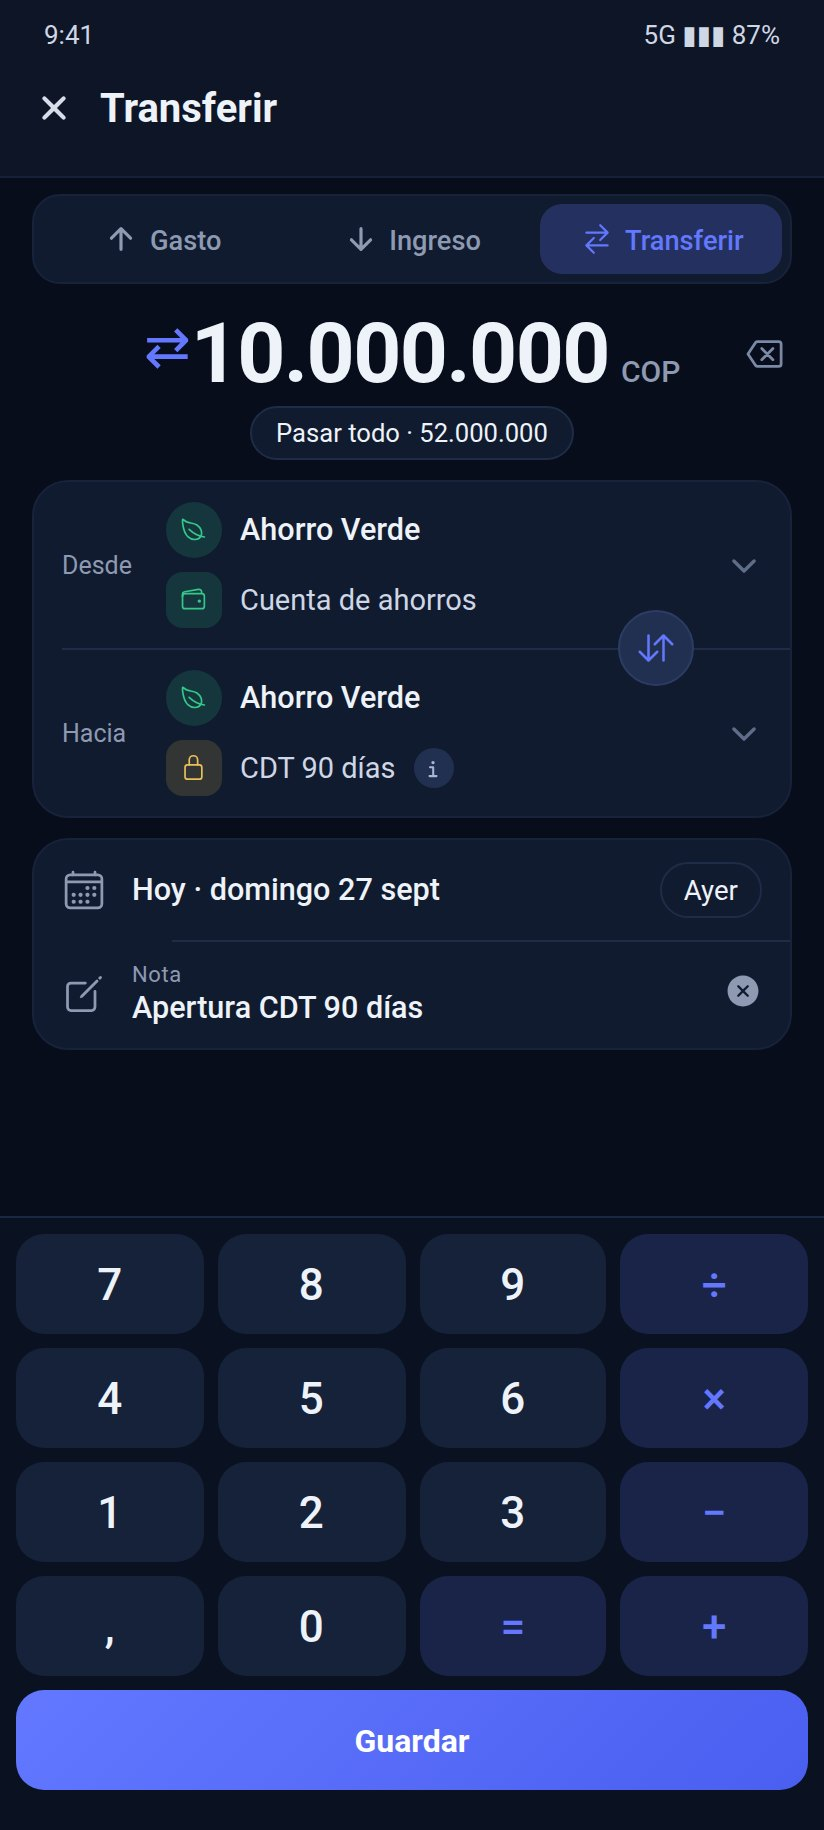
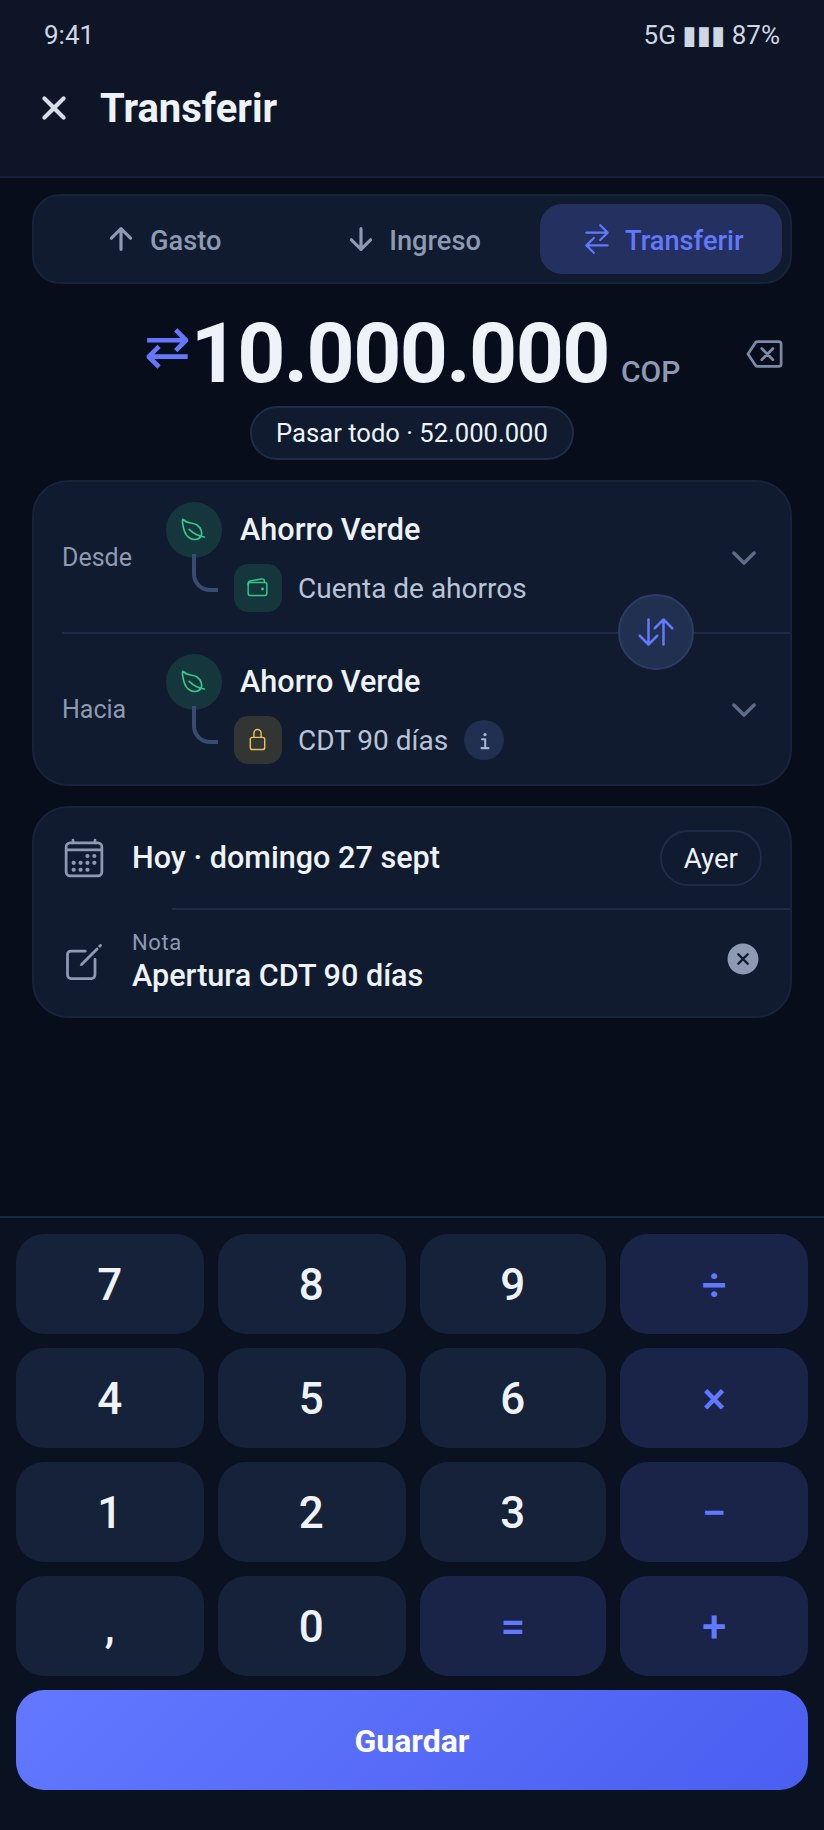
Hang each product from its account in the movement forms
A connector line from the account's circle turns into the product, which
is indented, smaller and lighter, so an end reads as one account holding
one product rather than two accounts.

Claude-Session: https://claude.ai/code/session_01QyUqFix1SMdsKVBtd1Wz88

diff --git a/CLAUDE.md b/CLAUDE.md
@@ -2228,7 +2228,10 @@ does today, with these changes of ACCESS for Jose to accept or refuse:
   size - the account in a circle, the product in a rounded square - and no
   box around the product. The two icons read as two things because they
   are two lines and two shapes. "Invertir" sits on the dividing line
-  between the two ends.
+  between the two ends. **The product hangs from its account** (v7, Jose:
+  it read as two accounts): a line comes down from the account's circle
+  and turns into the product, which is indented, smaller and lighter -
+  one account, and inside it one product.
 - **An explanation is an (i), not a paragraph**: a small (i) beside what it
   explains opens a bubble on tap (`4t01b`); a one-off outcome, such as the
   amount cleared after "Invertir", is a short notice that goes away by
